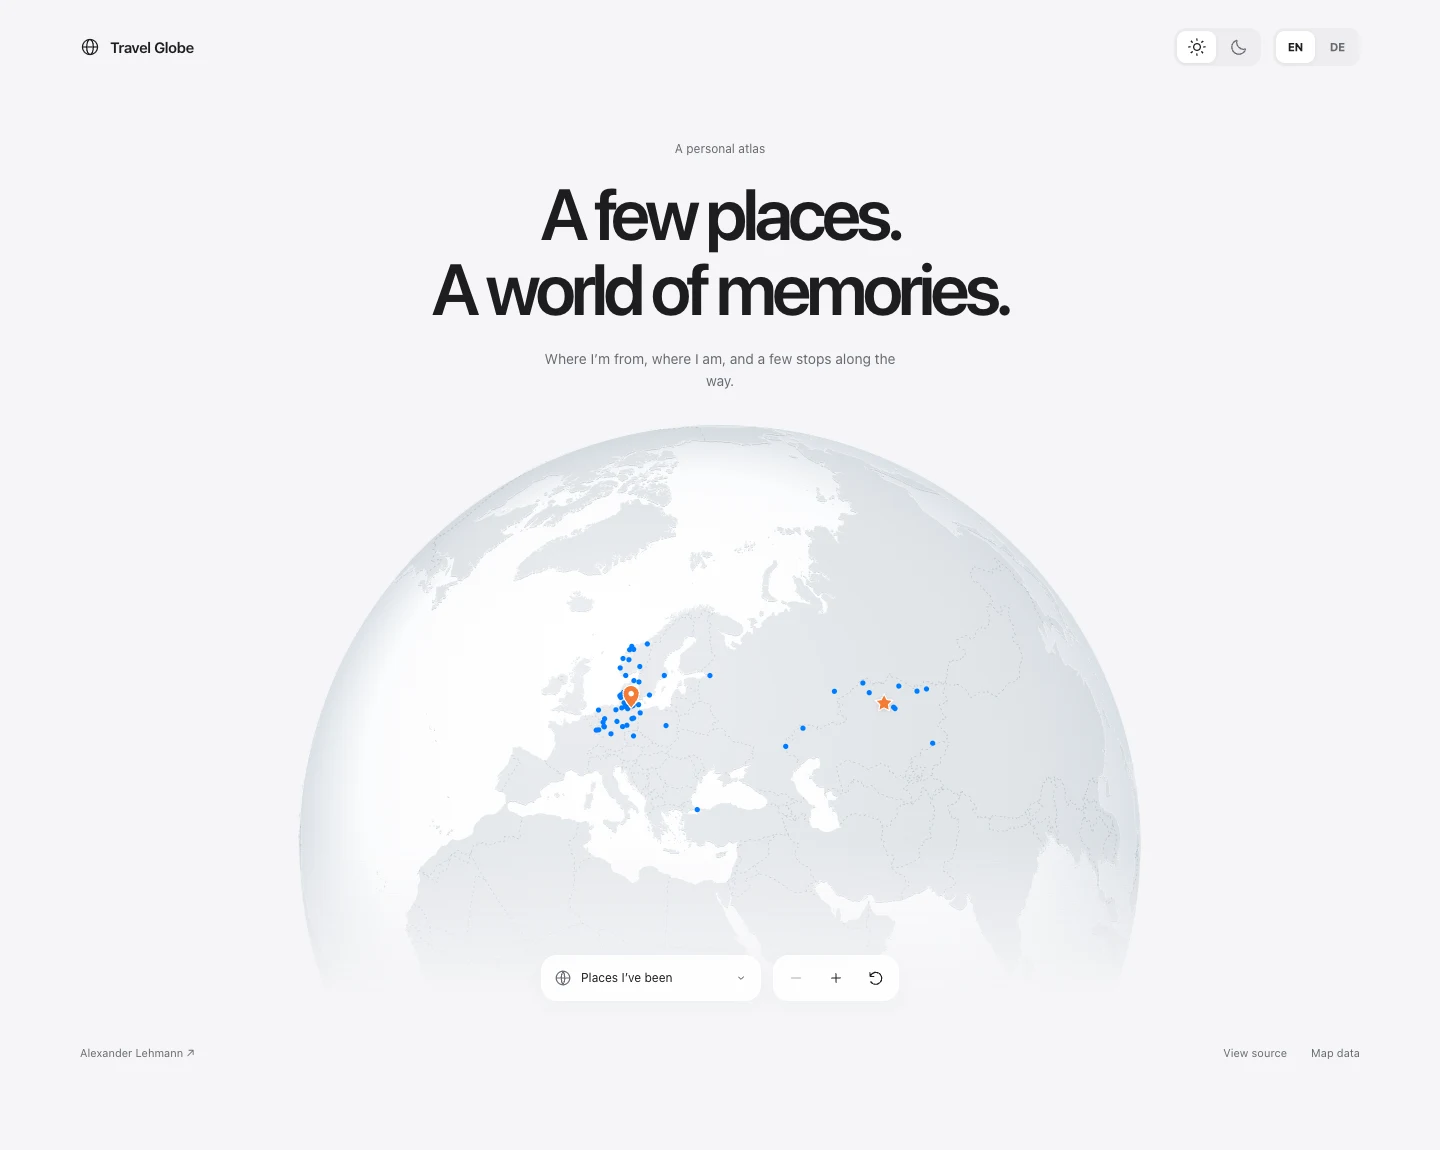
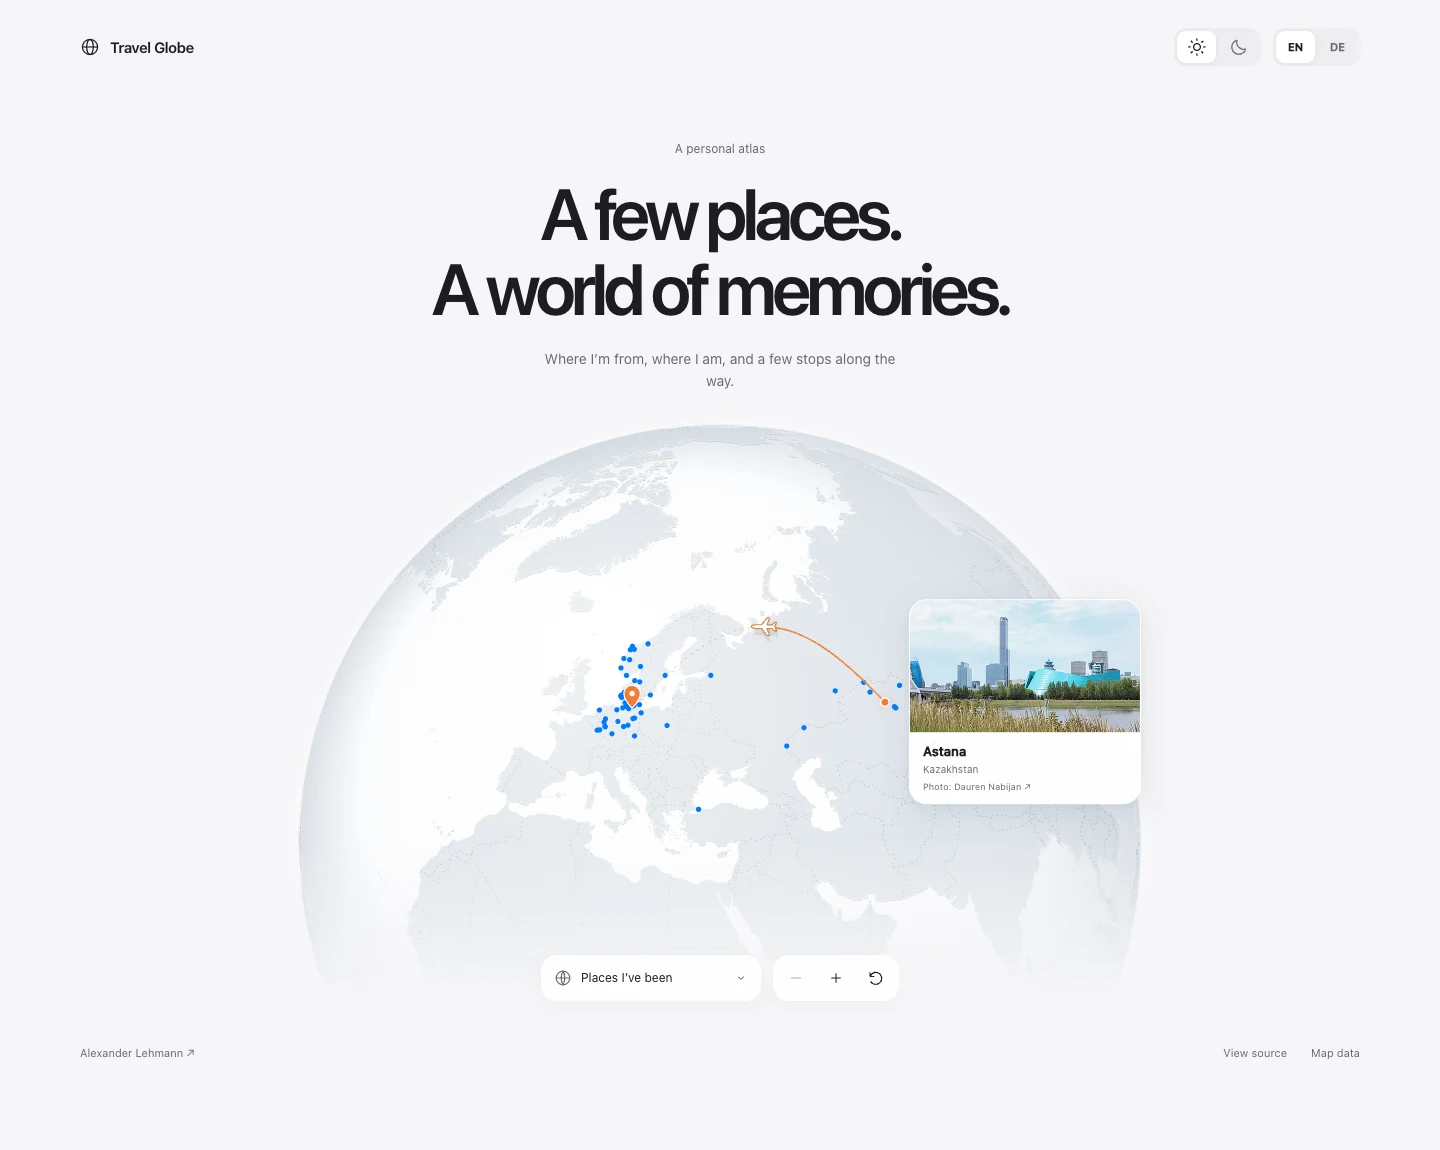
Animate the move from hometown to home with a flight arc

Changed region(s): [[0.5938, 0.5174, 0.8125, 0.7], [0.4062, 0.6087, 0.4688, 0.6391]]

diff --git a/assets/js/travel-globe.js b/assets/js/travel-globe.js
@@ -30,12 +30,19 @@
     de: { title: 'Orte, an denen ich war', picker: 'Einen Ort entdecken', origin: 'Meine Heimat', home: 'Heute zu Hause', controls: 'Globus steuern', in: 'Vergrößern', out: 'Verkleinern', reset: 'Globus zurücksetzen', error: 'Der Globus konnte nicht geladen werden. Bitte lade die Seite neu.' }
   };
   let language, words, regions;
-  let cities = [], land, borders, projection, path, visiblePoints = [];
+  let cities = [], land, borders, projection, visiblePoints = [];
   let width = 0, height = 0, radius = 0, ratio = 1;
   let longitude = 32, latitude = 36, zoom = 1, target = null;
   let active = null, hovered = null, pointer = null, interacted = false;
   let visible = false, loaded = false, loading = false, raf = 0, lastFrame = 0, dirty = true;
   let dark = document.documentElement.dataset.theme === 'dark';
+  let flight = null;
+  const flightDuration = 4600;
+  // Cache the map surface so a moving plane does not redraw all geographic paths.
+  const surface = document.createElement('canvas');
+  const surfaceContext = surface.getContext('2d');
+  let surfaceKey = '';
+  const aircraft = new Path2D('M14 0C14-1.4 10-2.1 8-2.1H2L-4-10H-7L-4-2.1H-10L-13-5H-15L-13 0L-15 5H-13L-10 2.1H-4L-7 10H-4L2 2.1H8C10 2.1 14 1.4 14 0Z');
   const clamp = (v, a, b) => Math.max(a, Math.min(b, v));
   const name = city => city[language] || city.en;
   const country = city => regions.of(city.country);
@@ -94,7 +101,7 @@
   }
   function showHover(city) {
     clearTimeout(hoverTimer);
-    if (city !== hovered) { hovered = city; dismissed = null; requestDraw(); }
+    if (city !== hovered) { hovered = city; dismissed = null; if (city?.kind === 'origin') startFlight(); requestDraw(); }
   }
   function updatePreview(city) {
     tooltipName.textContent = name(city);
@@ -133,35 +140,132 @@
     if (tooltip.contains(document.activeElement)) picker.focus();
     requestDraw();
   });
+  function drawSurface() {
+    const key = [width,height,ratio,longitude.toFixed(5),latitude.toFixed(5),zoom.toFixed(5),dark].join('|');
+    if (key !== surfaceKey) {
+      surfaceKey = key;
+      if(surface.width !== canvas.width || surface.height !== canvas.height) {
+        surface.width = canvas.width; surface.height = canvas.height;
+      }
+      const g = surfaceContext;
+      g.setTransform(ratio,0,0,ratio,0,0);g.clearRect(0,0,width,height);
+      const surfacePath = d3.geoPath(projection,g);
+      const sphere = r => { const [x,y]=projection.translate();g.beginPath();g.arc(x,y,r,0,Math.PI*2); };
+    const [cx,cy] = projection.translate(), r = radius * zoom;
+    const atmosphere = g.createRadialGradient(cx,cy,r-1,cx,cy,r+12);
+    atmosphere.addColorStop(0,dark?'#8bbaff12':'#ffffff88');
+    atmosphere.addColorStop(1,'#ffffff00');
+    sphere(r+12);g.fillStyle=atmosphere;g.fill();
+    const ocean = g.createRadialGradient(cx-r*.35,cy-r*.5,r*.04,cx,cy,r);
+    ocean.addColorStop(0, dark ? '#303741' : '#ffffff');
+    ocean.addColorStop(.75,dark ? '#20262e' : '#fbfcfd');
+    ocean.addColorStop(1,dark ? '#171d25' : '#e7ebf0');
+    g.save(); sphere(r); g.fillStyle=ocean; g.fill(); g.clip();
+    g.save(); g.translate(0,1.2); g.beginPath(); surfacePath(land); g.fillStyle=dark?'#10161b':'#cdd3db'; g.fill(); g.restore();
+    g.beginPath(); surfacePath(land); g.fillStyle=dark?'#424d5c':'#e0e6eb'; g.fill();
+    g.strokeStyle=dark?'#59657360':'#ffffffaa'; g.lineWidth=.55; g.stroke();
+    if (borders) {
+      g.save(); g.beginPath(); surfacePath(borders); g.setLineDash([2, 3]);
+      g.lineWidth = .7; g.lineCap = 'round';
+      g.strokeStyle = dark ? '#bdcddd38' : '#74839755'; g.stroke(); g.restore();
+    }
+    const light=g.createRadialGradient(cx-r*.4,cy-r*.55,0,cx,cy,r);
+    light.addColorStop(0,dark?'#d8eaff10':'#ffffff70'); light.addColorStop(.65,'#ffffff00'); light.addColorStop(1,dark?'#00000066':'#7c8b9b20');
+    sphere(r); g.fillStyle=light; g.fill(); g.restore();
+    sphere(r-.5); g.strokeStyle=dark?'#ffffff10':'#ffffffb3';g.lineWidth=1;g.stroke();
+    }
+    ctx.drawImage(surface,0,0,surface.width,surface.height,0,0,width,height);
+  }
+  function stopFlight() {
+    flight = null; delete root.dataset.flight;
+  }
+  function startFlight() {
+    if (!loaded || flight) return;
+    const origin = cities.find(city => city.kind === 'origin');
+    const home = cities.find(city => city.kind === 'home');
+    if (!origin || !home) return;
+    interacted = true;
+    const interpolate = d3.geoInterpolate(origin.coordinates,home.coordinates);
+    const midpoint = interpolate(.5);
+    const fits = [origin,home].every(city => {
+      if (d3.geoDistance(city.coordinates,[longitude,latitude]) > 1.2) return false;
+      const p = projection(city.coordinates);
+      return p[0]>42 && p[0]<width-42 && p[1]>80 && p[1]<height-90;
+    });
+    // A wider composition on touch screens leaves the route above the photo card.
+    if(width<600 || !fits || zoom>1.2) {
+      target = {longitude:midpoint[0],latitude:clamp(midpoint[1]-(width<600?36:20),-65,65),zoom:1};
+    } else target = null;
+    flight = {origin,home,interpolate,elapsed:0,still:reduced.matches};
+    root.dataset.flight = reduced.matches ? 'arrived' : 'flying';
+    status.textContent = language==='de'
+      ? name(origin)+' → '+name(home)+'. Von meiner Heimat zu meinem heutigen Zuhause.'
+      : name(origin)+' → '+name(home)+'. From my hometown to my home today.';
+    requestDraw();
+  }
+  function flightPoint(t) {
+    const coordinates = flight.interpolate(t);
+    const p = projection(coordinates);
+    const lift = Math.sin(Math.PI*t)*Math.min(76,radius*zoom*.17);
+    return {x:p[0],y:p[1]-lift,front:d3.geoDistance(coordinates,[longitude,latitude])<Math.PI/2-.015};
+  }
+  function drawFlight() {
+    if(!flight) return;
+    const age=flight.elapsed;
+    const progress=flight.still?1:clamp((age-250)/flightDuration,0,1);
+    const travelled=progress*progress*(3-2*progress);
+    const arrival=clamp((age-flightDuration-250)/1500,0,1);
+    const opacity=flight.still?1:1-clamp((age-6200)/900,0,1);
+    const route=(from,to)=>{
+      ctx.beginPath();let pen=false;
+      const steps=Math.max(2,Math.ceil((to-from)*90));
+      for(let i=0;i<=steps;i++){
+        const p=flightPoint(from+(to-from)*i/steps);
+        if(!p.front){pen=false;continue;}
+        if(pen)ctx.lineTo(p.x,p.y);else ctx.moveTo(p.x,p.y);
+        pen=true;
+      }
+    };
+    ctx.save();ctx.globalAlpha=opacity;ctx.lineCap='round';ctx.lineJoin='round';
+    route(0,1);ctx.setLineDash([2,5]);ctx.strokeStyle=dark?'#ffb57b65':'#d378354a';ctx.lineWidth=1;ctx.stroke();ctx.setLineDash([]);
+    route(0,travelled);ctx.strokeStyle=dark?'#ffac6d':'#ef873f';ctx.lineWidth=1.6;ctx.stroke();
+    if(!flight.still && progress>0 && progress<1){
+      const p=flightPoint(travelled),next=flightPoint(Math.min(1,travelled+.003));
+      if(p.front){
+        const angle=Math.atan2(next.y-p.y,next.x-p.x);
+        const scale=(width<600?.68:.88)*(.6+.4*Math.sin(Math.PI*progress));
+        // A soft, offset shadow makes the plane float above the route.
+        ctx.save();ctx.translate(p.x+2,p.y+7);ctx.rotate(angle);ctx.scale(scale,scale);
+        ctx.fillStyle='#24374b14';ctx.fill(aircraft);ctx.restore();
+        ctx.save();ctx.translate(p.x,p.y);ctx.rotate(angle);ctx.scale(scale,scale);
+        ctx.globalAlpha=opacity*Math.min(1,progress*10,(1-progress)*10);
+        ctx.shadowColor=dark?'#0007':'#34516b44';ctx.shadowBlur=5;ctx.shadowOffsetY=2;
+        ctx.fillStyle=dark?'#f5f8ff':'#ffffff';ctx.fill(aircraft);
+        ctx.shadowBlur=0;ctx.shadowOffsetY=0;ctx.strokeStyle=dark?'#ffbc86':'#dd823f';ctx.lineWidth=1.3;ctx.stroke(aircraft);
+        ctx.restore();
+      }
+    }
+    if(progress===1){
+      const p=projection(flight.home.coordinates);
+      if(d3.geoDistance(flight.home.coordinates,[longitude,latitude])<Math.PI/2-.015){
+        circle(p[0],p[1],flight.still?11:8+arrival*23);
+        ctx.strokeStyle=dark?'#ffb57b':'#ef873f';ctx.lineWidth=1.3;ctx.globalAlpha=opacity*(flight.still?.4:1-arrival);ctx.stroke();
+      }
+    }
+    ctx.restore();
+  }
   function draw() {
     if (!loaded || !width) return;
     ctx.setTransform(ratio,0,0,ratio,0,0); ctx.clearRect(0,0,width,height);
     project();
-    const [cx,cy] = projection.translate(), r = radius * zoom;
-    const ocean = ctx.createRadialGradient(cx-r*.35,cy-r*.5,r*.04,cx,cy,r);
-    ocean.addColorStop(0, dark ? '#303741' : '#ffffff');
-    ocean.addColorStop(.75,dark ? '#20262e' : '#fbfcfd');
-    ocean.addColorStop(1,dark ? '#171d25' : '#e7ebf0');
-    ctx.save(); circle(cx,cy,r); ctx.fillStyle=ocean; ctx.fill(); ctx.clip();
-    ctx.save(); ctx.translate(0,1.2); ctx.beginPath(); path(land); ctx.fillStyle=dark?'#10161b':'#cdd3db'; ctx.fill(); ctx.restore();
-    ctx.beginPath(); path(land); ctx.fillStyle=dark?'#414b58':'#e1e5e9'; ctx.fill();
-    ctx.strokeStyle=dark?'#59657360':'#ffffffaa'; ctx.lineWidth=.55; ctx.stroke();
-    if (borders) {
-      ctx.save(); ctx.beginPath(); path(borders); ctx.setLineDash([2, 3]);
-      ctx.lineWidth = .7; ctx.lineCap = 'round';
-      ctx.strokeStyle = dark ? '#bdcddd38' : '#74839755'; ctx.stroke(); ctx.restore();
-    }
-    const light=ctx.createRadialGradient(cx-r*.4,cy-r*.55,0,cx,cy,r);
-    light.addColorStop(0,dark?'#ffffff08':'#ffffff5c'); light.addColorStop(.65,'#ffffff00'); light.addColorStop(1,dark?'#00000066':'#7c8b9b20');
-    circle(cx,cy,r); ctx.fillStyle=light; ctx.fill(); ctx.restore();
-    circle(cx,cy,r-.5); ctx.strokeStyle=dark?'#ffffff10':'#ffffffb3';ctx.lineWidth=1;ctx.stroke();
+    drawSurface();
     visiblePoints=[];
     cities.forEach(city => {
       if (d3.geoDistance(city.coordinates,[longitude,latitude]) > Math.PI/2-.035) return;
       const p=projection(city.coordinates);
       if (p[0]<-10 || p[0]>width+10 || p[1]<-10 || p[1]>height-65) return;
       visiblePoints.push({city,p});
-      if (city.kind !== 'visited') return; // Special cities use the star and pin above the canvas.
+      if (city.kind !== 'visited') return; // Special cities use the orange dot and pin above the canvas.
       const selected=city===active || city===hovered;
       if (selected) {
         circle(p[0],p[1],8); ctx.fillStyle=city.kind==='origin'?'#f47a3624':'#007aff20'; ctx.fill();
@@ -170,6 +274,7 @@
       ctx.fillStyle=city.kind==='origin'?'#f47a36':dark?'#62b0ff':'#007aff';ctx.fill();
       if(selected) {ctx.strokeStyle=dark?'#222b35':'#fff';ctx.lineWidth=1.6;ctx.stroke();}
     });
+    drawFlight();
     special.forEach(button=>{
       const point=visiblePoints.find(p=>p.city.kind===button.dataset.globeSpecial);
       if(point) placeMarker(button,point.p,point.city.kind);
@@ -180,11 +285,13 @@
     if(spot && highlight !== dismissed && !pointer?.moved) {
       tooltip.hidden=false;
       updatePreview(highlight);
-      const tx=clamp(spot.p[0]-tooltip.offsetWidth/2,8,width-tooltip.offsetWidth-8);
+      const journey = flight && highlight.kind==='origin';
+      const tx=clamp(journey && width>=600 ? spot.p[0]+24 : spot.p[0]-tooltip.offsetWidth/2,8,width-tooltip.offsetWidth-8);
       const above = spot.p[1]-tooltip.offsetHeight-(highlight.kind==='home'?34:16);
       const below = spot.p[1]+18;
       const preferred = above < 8 && below+tooltip.offsetHeight < height-65 ? below : above;
-      const ty=clamp(preferred,8,Math.max(8,height-tooltip.offsetHeight-65));
+      const photoY = journey ? (width<600 ? height-tooltip.offsetHeight-65 : spot.p[1]-tooltip.offsetHeight*.5) : preferred;
+      const ty=clamp(photoY,8,Math.max(8,height-tooltip.offsetHeight-65));
       tooltip.style.transform=`translate(${tx}px,${ty}px)`;
     } else tooltip.hidden=true;
     updateButtons();
@@ -204,12 +311,25 @@
     } else if(!interacted && !reduced.matches && !hovered && !pointer) {
       longitude=32+Math.sin(time*.000075)*7; latitude=36+Math.sin(time*.00005)*1.7; moving=true;
     }
+    if(flight && !flight.still){
+      if(reduced.matches){flight.still=true;root.dataset.flight='arrived';dirty=true;}
+      else {
+        flight.elapsed+=dt;moving=true;
+        if(flight.elapsed>=flightDuration+250 && root.dataset.flight!=='arrived'){
+          root.dataset.flight='arrived';
+          status.textContent=name(flight.home)+(language==='de'?' — heute zu Hause.':' — home now.');
+        }
+        if(flight.elapsed>=7100)stopFlight();
+      }
+    }
     if(dirty || moving) { draw(); dirty=false; }
     if(moving) raf=requestAnimationFrame(frame);
   }
   function focusCity(city) {
     clearTimeout(hoverTimer); dismissed=null; interacted=true; hovered=null; active=city;
     picker.value=String(city.id);
+    if(city.kind==='origin'){ startFlight(); requestDraw(); return; }
+    stopFlight();
     target={longitude:city.coordinates[0],latitude:city.coordinates[1]-(width<600?(city.photo?-9:4):13),zoom:width<600?1.65:1.7};
     status.textContent=name(city)+' — '+country(city)+(city.kind==='home'?' · '+words.home:city.kind==='origin'?' · '+words.origin:'');
     requestDraw();
@@ -222,7 +342,7 @@
   }
   canvas.addEventListener('pointerdown',event=>{
     if(!loaded || (event.button!==0 && event.pointerType==='mouse')) return;
-    clearTimeout(hoverTimer); dismissed=null; pauseIdle(); hovered=null;
+    clearTimeout(hoverTimer); dismissed=null; stopFlight(); pauseIdle(); hovered=null;
     pointer={id:event.pointerId,x:event.clientX,y:event.clientY,longitude,latitude,moved:false};
     canvas.setPointerCapture(event.pointerId);
   });
@@ -255,16 +375,16 @@
     const city = () => cities.find(c => c.kind === button.dataset.globeSpecial);
     const show = () => showHover(city() || null);
     const hide = clearHoverLater;
-    button.addEventListener('pointerenter', show);
+    button.addEventListener('pointerenter', event => { if(event.pointerType!=='touch') show(); });
     button.addEventListener('pointerleave', hide);
     button.addEventListener('focus', show);
     button.addEventListener('blur', hide);
     button.addEventListener('click', () => { const place = city(); if (place) focusCity(place); });
   });
   root.querySelectorAll('[data-globe-zoom]').forEach(button=>button.addEventListener('click',()=>{
-    interacted=true;target={longitude,latitude,zoom:clamp((target?.zoom || zoom)+Number(button.dataset.globeZoom)*.5,1,3.5)};requestDraw();
+    stopFlight();interacted=true;target={longitude,latitude,zoom:clamp((target?.zoom || zoom)+Number(button.dataset.globeZoom)*.5,1,3.5)};requestDraw();
   }));
-  function reset() {clearTimeout(hoverTimer);dismissed=null;interacted=true;active=null;hovered=null;picker.value='';target={longitude:32,latitude:36,zoom:1};requestDraw();}
+  function reset() {stopFlight();clearTimeout(hoverTimer);dismissed=null;interacted=true;active=null;hovered=null;picker.value='';target={longitude:32,latitude:36,zoom:1};requestDraw();}
   root.querySelector('[data-globe-reset]').addEventListener('click',reset);
   function loadScript(file) {
     return new Promise((resolve,reject)=>{const s=document.createElement('script');s.src=asset('vendor/globe/'+file);s.onload=resolve;s.onerror=reject;document.head.append(s);});
@@ -280,7 +400,7 @@
         loadScript('topojson-client.min.js')
       ]);
       cities=places;land=topojson.feature(world,world.objects.land);borders=boundaries;
-      projection=d3.geoOrthographic().clipAngle(90).precision(.45);path=d3.geoPath(projection,ctx);
+      projection=d3.geoOrthographic().clipAngle(90).precision(.45);
       loaded=true;root.dataset.ready='true';translate();resize();requestDraw();
     } catch(error) {
       const p=document.createElement('p');p.className='travel-globe__fallback';p.textContent=words.error;root.append(p);

diff --git a/index.html b/index.html
@@ -8,9 +8,9 @@
   <title>Travel Globe — Alexander Lehmann</title>
   <link rel="icon" href="assets/favicon.svg" type="image/svg+xml">
   <link rel="stylesheet" href="assets/css/demo.css">
-  <link rel="stylesheet" href="assets/css/travel-globe.css?v=20261028-photos">
+  <link rel="stylesheet" href="assets/css/travel-globe.css?v=20261028-journey">
   <script src="assets/js/demo.js" defer></script>
-  <script src="assets/js/travel-globe.js?v=20261028-photos" defer></script>
+  <script src="assets/js/travel-globe.js?v=20261028-journey" defer></script>
 </head>
 <body>
   <a class="skip-link" href="#globe">Skip to globe</a>
@@ -30,7 +30,7 @@
         <div class="travel-globe__viewport">
           <canvas class="travel-globe__canvas" aria-hidden="true"></canvas>
           <div class="travel-globe__labels">
-            <button class="globe-place globe-place--origin" type="button" data-globe-special="origin" aria-label="Astana — where I’m from"><svg viewBox="0 0 24 24" aria-hidden="true"><path d="m12 2.5 2.94 5.96 6.58.96-4.76 4.64 1.12 6.55L12 17.52l-5.88 3.09 1.12-6.55-4.76-4.64 6.58-.96Z"/></svg></button>
+            <button class="globe-place globe-place--origin" type="button" data-globe-special="origin" aria-label="Astana — where I’m from"><svg viewBox="0 0 24 24" aria-hidden="true"><circle cx="12" cy="12" r="5"/></svg></button>
             <button class="globe-place globe-place--home" type="button" data-globe-special="home" aria-label="Güstrow — home now"><svg viewBox="0 0 24 28" aria-hidden="true"><path d="M12 26S3 16.6 3 10a9 9 0 0 1 18 0c0 6.6-9 16-9 16Z"/><circle cx="12" cy="10" r="3"/></svg></button>
             <div class="globe-tooltip" hidden><strong></strong><span></span></div>
           </div>

diff --git a/assets/css/travel-globe.css b/assets/css/travel-globe.css
@@ -5,7 +5,7 @@
 .travel-globe__canvas { width: 100%; height: 100%; display: block; cursor: grab; touch-action: pan-y pinch-zoom; }
 .travel-globe__canvas:active { cursor: grabbing; }
 .travel-globe__labels { position: absolute; inset: 0; pointer-events: none; }
-/* Small icons at their geographic coordinates; no permanent text labels. */
+/* Personal markers at their geographic coordinates; no permanent text labels. */
 .globe-place { position: absolute; z-index: 3; display: grid; place-items: center; width: 32px; height: 32px; padding: 0; border: 0; border-radius: 50%; background: transparent; pointer-events: auto; opacity: 0; transition: opacity .2s; }
 .globe-place svg { width: 22px; height: 22px; overflow: visible; fill: var(--globe-orange); stroke: #fff; stroke-width: 1.3; stroke-linejoin: round; filter: drop-shadow(0 1px 2px #52260020); transition: filter .2s; }
 .globe-place--home svg { width: 22px; height: 26px; fill: var(--globe-orange); filter: drop-shadow(0 1px 2px #52260020); }
@@ -53,3 +53,8 @@
   .globe-tooltip__photo { height: 114px; }
 }
 @media (prefers-reduced-motion: reduce) { .globe-tooltip__photo { transition: none; } }
+
+.globe-place--origin svg { width: 20px; height: 20px; stroke-width: 1.8; filter: none; }
+.globe-place--origin:hover svg, .globe-place--origin:focus-visible svg { filter: drop-shadow(0 0 4px #f47a363b); }
+.travel-globe[data-flight] .globe-place--origin svg { filter: drop-shadow(0 0 5px #f47a3655); }
+.travel-globe[data-flight="arrived"] .globe-place--home svg { filter: drop-shadow(0 2px 7px #f47a3640); }

diff --git a/README.md b/README.md
@@ -4,7 +4,7 @@
 
 [Open the live demo →](https://alxlehmann.github.io/travel-globe/)
 
-An interactive globe for the places that stay with you. Soft land relief, quiet country borders, and a constellation of places visited — with a star for your hometown and a pin for where you live now.
+An interactive globe for the places that stay with you. Soft land relief, quiet country borders, and a constellation of places visited — with an orange dot for your hometown and a pin for where you live now.
 
 Built with vanilla JavaScript, Canvas 2D, and D3 Geo. Self-hosted from coastlines to city coordinates. No API keys, map subscriptions, framework, or build step.
 
@@ -15,7 +15,8 @@ Built with vanilla JavaScript, Canvas 2D, and D3 Geo. Self-hosted from coastline
 Drag to turn the globe. Select a place to bring it into view. Hover a dot to see its name, or use the place selector when a cluster gets too dense.
 
 - **City postcards.** Open a place to see a photograph, its name, and its country. Small WebP images load on demand, with linked photographer and licence credits.
-- **Personal markers.** An orange star for your hometown; a matching pin for your current home.
+- **Personal markers.** An orange dot for your hometown; a matching pin for your current home.
+- **A story in motion.** Hover your hometown, tap it, or activate its marker with the keyboard: a small plane follows a raised arc to your current home, leaving a fine trail and a soft arrival ring. The connection illustrates a move, not an actual flight itinerary.
 - **A quiet map.** Subtle dashed borders, a softly shaded sphere, and a gentle fade into the page.
 - **Touch interaction.** Horizontal dragging rotates the globe on phones while vertical gestures still scroll the page. Zoom buttons work with mouse, touch, and keyboard.
 - **Light and dark.** Pale relief by day, graphite tones by night.
@@ -141,9 +142,10 @@ D3 Geo projects geographic data onto an orthographic sphere. Canvas draws the la
 
 - Map data and rendering libraries load when the globe approaches the viewport.
 - Continuous animation targets approximately 30 fps; display density is capped at 1.75×.
+- The land surface is cached between view changes, so the flight animation reuses it instead of repeatedly projecting every coastline.
 - Rendering stops when the globe is far offscreen or the browser tab is hidden.
 - Idle motion stops after interaction. The globe then redraws for user input and view transitions.
-- Reduced-motion preferences disable idle drift and make view transitions immediate.
+- Reduced-motion preferences disable idle drift, make view transitions immediate, and show a static relocation arc instead of a moving plane.
 - A native grouped place selector provides a keyboard-accessible alternative to pointing at small dots. Icon buttons have accessible names, and selected places are announced through a live region.
 
 The base map data and vendor scripts total roughly **950 KB before HTTP compression**. The optional photo collection adds about **2 MB on disk**, but no photographs load until a place is opened (approximately **33 KB per image** on average). Enable gzip or Brotli on your host and use asset caching. Rendering cost still depends on the device; this is an animated map, not a static image.
@@ -176,4 +178,4 @@ Created by [Alexander Lehmann](https://alex-lehmann.com/).
 
 Original code is licensed under [MIT](LICENSE). Map data comes from [Natural Earth](https://www.naturalearthdata.com/about/terms-of-use/) via [World Atlas](https://github.com/topojson/world-atlas), and is public domain. D3 and TopoJSON retain their ISC licences. Photographs retain their individual CC BY, CC BY-SA, CC0 or public-domain terms, as listed on the [photo credits page](https://alxlehmann.github.io/travel-globe/sources.html). See [third-party notices](THIRD_PARTY_NOTICES.md).
 
-Points represent approximate locations, not routes. Geographic boundaries follow the source dataset and are provided for visual context.
+Points represent approximate locations. The relocation arc is illustrative, not a flight itinerary. Geographic boundaries follow the source dataset and are provided for visual context.
